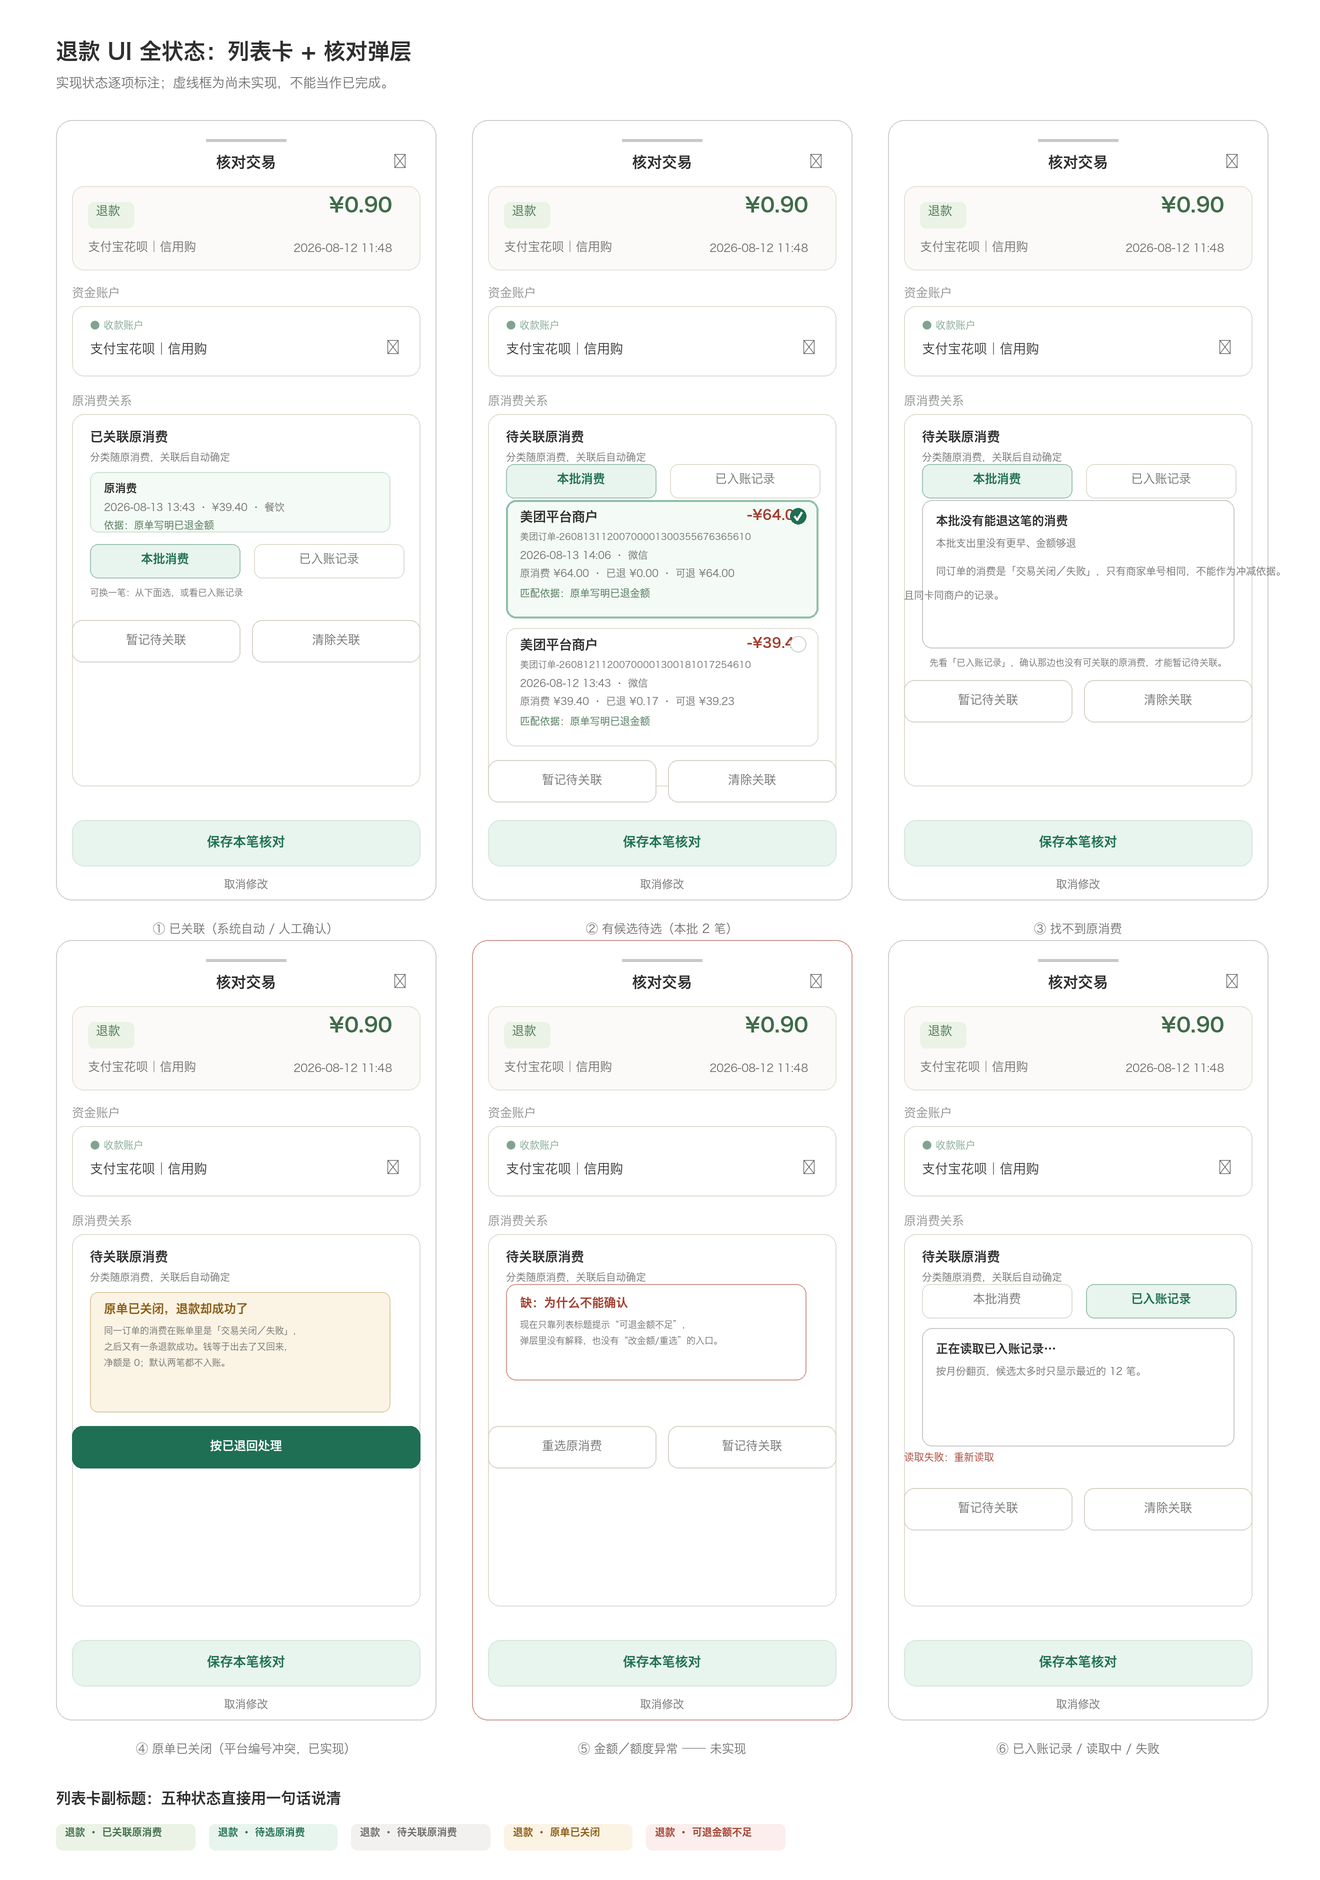
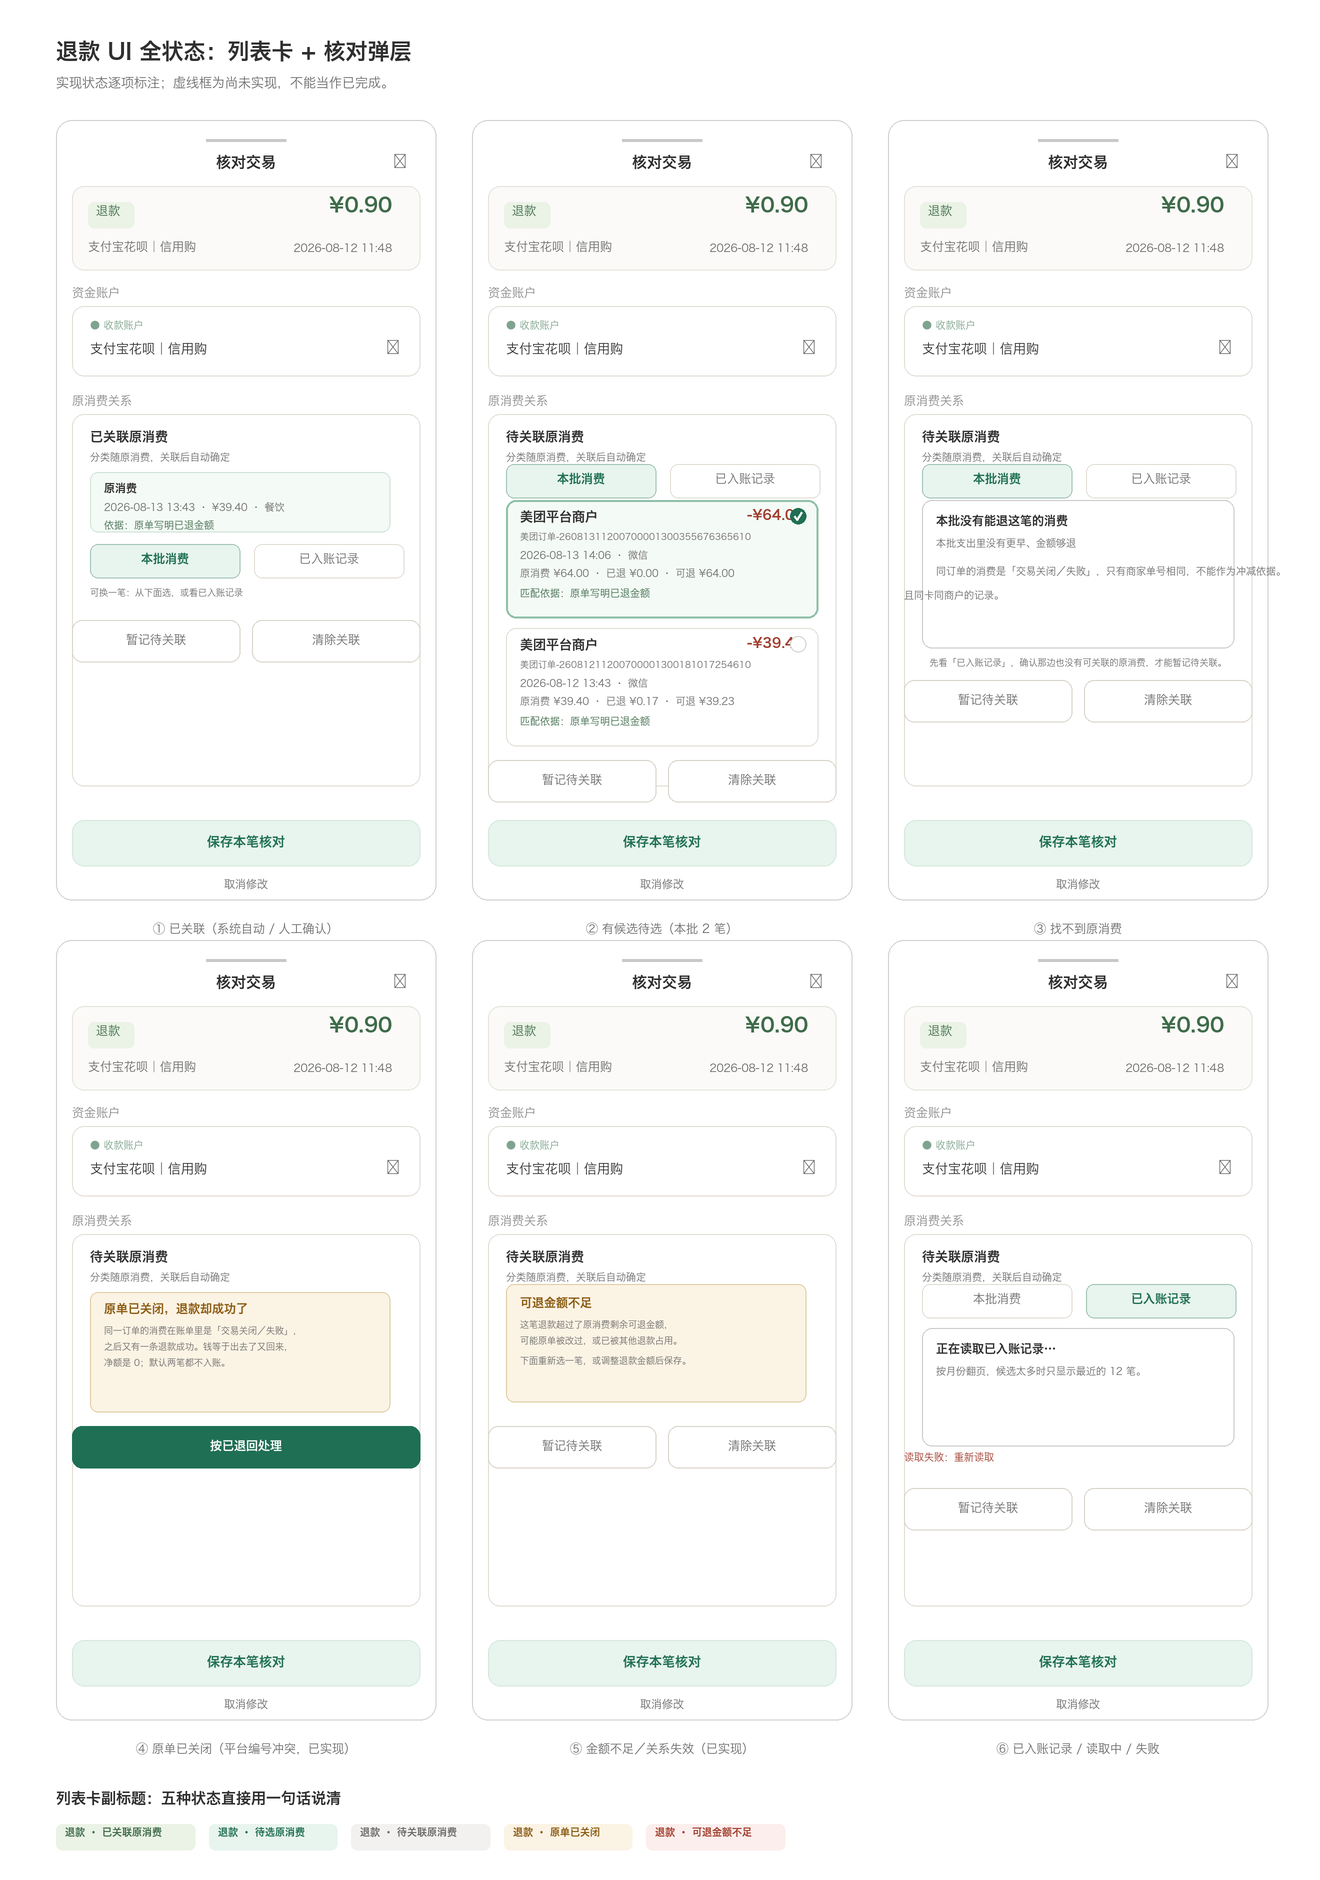
fix(refund): 订单号加后缀视为同一单，旧草稿本机补判定；状态五补说明
- 平台订单号 A 与 A_流水 视为同一单（支付宝退款行写法），据此识别“原单已关闭”
- 本机读取时用同一纯规则重算，规则更新前整理的旧草稿不必重导也能显示正确状态
- 可退金额不足/关系失效：弹层说明原因并指向重选或改金额；已入账读取失败可重试
- 更新界面状态图与文档

Changed region(s): [[0.3727, 0.6787, 0.6212, 0.7713], [0.4348, 0.9255, 0.5591, 0.9564]]

diff --git a/cloudfunctions/catledger-import/src/refund-source-conflict.js b/cloudfunctions/catledger-import/src/refund-source-conflict.js
@@ -7,6 +7,18 @@ function references(event) {
     .filter(value => /^(?:alipay|wechat)\|(?:transaction|order):/u.test(value) && !/[*＊•·xX]{2,}/u.test(value))
 }
 
+// 支付宝的退款行会在原订单号后面追加 "_<流水>"，平台号本身就是原单的派生，
+// 属于平台编码而商户自编号。只认“同一前缀 + 明确分隔符”，避免把两笔独立订单
+// 因为前缀巧合当成同一笔。
+function referenceMatches(left, right) {
+  if (left === right) return true
+  if (!/\|order:/u.test(left) || !/\|order:/u.test(right)) return false
+  const [short, long] = left.length <= right.length ? [left, right] : [right, left]
+  const head = long.slice(0, short.length)
+  const tail = long.slice(short.length)
+  return head === short && /^_/u.test(tail) && short.split(':')[1].length >= 10
+}
+
 function sameSource(left, right, sourceType) {
   const a = left.relationEvidence && left.relationEvidence.rows || []
   const b = right.relationEvidence && right.relationEvidence.rows || []
@@ -15,31 +27,35 @@ function sameSource(left, right, sourceType) {
 }
 
 function reliableSharedReference(left, right) {
-  const refs = new Set(references(left))
-  return references(right).some(reference => refs.has(reference) && sameSource(left, right, reference.split('|')[0]))
+  const refs = references(left)
+  return references(right).some(reference => refs.some(own => referenceMatches(own, reference)) &&
+    sameSource(left, right, reference.split('|')[0]))
 }
 
 function findRefundSourceConflicts(events) {
-  const byReference = new Map()
+  const closed = []
   for (const original of events) {
     if ((original.existingTransactionIds || []).length || !['expense', 'fee'].includes(original.economicNature)) continue
     const rows = original.relationEvidence && original.relationEvidence.rows || []
     if (!rows.length || !rows.every(row => row.direction === 'expense' && ['closed', 'failed'].includes(row.moneyEffect))) continue
-    for (const reference of references(original)) {
-      if (!byReference.has(reference)) byReference.set(reference, [])
-      byReference.get(reference).push(original)
-    }
+    if (!references(original).length) continue
+    closed.push(original)
   }
   const result = []
   for (const refund of events) {
     if (refund.economicNature !== 'refund' || !['ready', 'needs_action'].includes(refund.status)) continue
     const rows = refund.relationEvidence && refund.relationEvidence.rows || []
     if (!rows.length || !rows.every(row => row.sourceAction === 'refund_credit' && row.moneyEffect === 'financial')) continue
+    const refundRefs = references(refund)
     const matches = new Map()
-    for (const reference of references(refund)) for (const original of byReference.get(reference) || []) {
+    for (const original of closed) {
+      const shared = references(original).find(own => refundRefs.some(candidate => referenceMatches(own, candidate)))
+      if (!shared) continue
       const before = timeValue(original.utcAt), after = timeValue(refund.utcAt)
-      if (original.eventId !== refund.eventId && original.currency === refund.currency &&
-          before != null && after != null && before <= after && sameSource(original, refund, reference.split('|')[0])) matches.set(original.eventId, original)
+      if (original.eventId === refund.eventId || original.currency !== refund.currency) continue
+      if (before == null || after == null || before > after) continue
+      if (!sameSource(original, refund, shared.split('|')[0])) continue
+      matches.set(original.eventId, original)
     }
     if (matches.size) result.push({ refund, originals: [...matches.values()] })
   }

diff --git a/miniprogram/packages/finance/domain/import-review/refund-source-conflict.js b/miniprogram/packages/finance/domain/import-review/refund-source-conflict.js
@@ -7,6 +7,18 @@ function references(event) {
     .filter(value => /^(?:alipay|wechat)\|(?:transaction|order):/u.test(value) && !/[*＊•·xX]{2,}/u.test(value))
 }
 
+// 支付宝的退款行会在原订单号后面追加 "_<流水>"，平台号本身就是原单的派生，
+// 属于平台编码而商户自编号。只认“同一前缀 + 明确分隔符”，避免把两笔独立订单
+// 因为前缀巧合当成同一笔。
+function referenceMatches(left, right) {
+  if (left === right) return true
+  if (!/\|order:/u.test(left) || !/\|order:/u.test(right)) return false
+  const [short, long] = left.length <= right.length ? [left, right] : [right, left]
+  const head = long.slice(0, short.length)
+  const tail = long.slice(short.length)
+  return head === short && /^_/u.test(tail) && short.split(':')[1].length >= 10
+}
+
 function sameSource(left, right, sourceType) {
   const a = left.relationEvidence && left.relationEvidence.rows || []
   const b = right.relationEvidence && right.relationEvidence.rows || []
@@ -15,31 +27,35 @@ function sameSource(left, right, sourceType) {
 }
 
 function reliableSharedReference(left, right) {
-  const refs = new Set(references(left))
-  return references(right).some(reference => refs.has(reference) && sameSource(left, right, reference.split('|')[0]))
+  const refs = references(left)
+  return references(right).some(reference => refs.some(own => referenceMatches(own, reference)) &&
+    sameSource(left, right, reference.split('|')[0]))
 }
 
 function findRefundSourceConflicts(events) {
-  const byReference = new Map()
+  const closed = []
   for (const original of events) {
     if ((original.existingTransactionIds || []).length || !['expense', 'fee'].includes(original.economicNature)) continue
     const rows = original.relationEvidence && original.relationEvidence.rows || []
     if (!rows.length || !rows.every(row => row.direction === 'expense' && ['closed', 'failed'].includes(row.moneyEffect))) continue
-    for (const reference of references(original)) {
-      if (!byReference.has(reference)) byReference.set(reference, [])
-      byReference.get(reference).push(original)
-    }
+    if (!references(original).length) continue
+    closed.push(original)
   }
   const result = []
   for (const refund of events) {
     if (refund.economicNature !== 'refund' || !['ready', 'needs_action'].includes(refund.status)) continue
     const rows = refund.relationEvidence && refund.relationEvidence.rows || []
     if (!rows.length || !rows.every(row => row.sourceAction === 'refund_credit' && row.moneyEffect === 'financial')) continue
+    const refundRefs = references(refund)
     const matches = new Map()
-    for (const reference of references(refund)) for (const original of byReference.get(reference) || []) {
+    for (const original of closed) {
+      const shared = references(original).find(own => refundRefs.some(candidate => referenceMatches(own, candidate)))
+      if (!shared) continue
       const before = timeValue(original.utcAt), after = timeValue(refund.utcAt)
-      if (original.eventId !== refund.eventId && original.currency === refund.currency &&
-          before != null && after != null && before <= after && sameSource(original, refund, reference.split('|')[0])) matches.set(original.eventId, original)
+      if (original.eventId === refund.eventId || original.currency !== refund.currency) continue
+      if (before == null || after == null || before > after) continue
+      if (!sameSource(original, refund, shared.split('|')[0])) continue
+      matches.set(original.eventId, original)
     }
     if (matches.size) result.push({ refund, originals: [...matches.values()] })
   }

diff --git a/miniprogram/packages/finance/services/import-local-model.js b/miniprogram/packages/finance/services/import-local-model.js
@@ -264,6 +264,24 @@ function create(facts) {
   const refundPolicy = require('../domain/import-review/refund-relation-policy')
   const evidenceMatching = require('../domain/import-review/evidence-matching')
   const MATCH_RANK = { exact_reference: 1, explicit_refund_evidence: 2, item_evidence: 3, merchant_evidence: 4 }
+  // 服务端整理时已经会标“原单关闭却退款成功”，但旧草稿是在规则更新前整理的。
+  // 这里用同一份纯规则在本机再算一次（幂等），避免同一笔在新旧草稿里显示成两种状态。
+  {
+    const conflictPolicy = require('../domain/import-review/refund-source-conflict')
+    const probe = [...events.values()].map(event => ({ ...event,
+      relationEvidence: relationEvidenceFor(event).relationEvidence, rows: undefined }))
+    for (const { refund, originals } of conflictPolicy.findRefundSourceConflicts(probe)) {
+      const current = events.get(refund.eventId)
+      if (!current) continue
+      current.reasonCodes = [...new Set([...(current.reasonCodes || []), 'refund_source_conflict'])]
+      current.fieldSources = { ...current.fieldSources, refundSourceConflict: { version: 1,
+        originalEventIds: originals.map(original => original.eventId).sort() } }
+      if (current.status === 'ready') current.status = 'needs_action'
+    }
+  }
+
+
+
   function relationEvidenceFor(event) {
     const linksOf = byEvent.get(event.eventId) || []
     const primary = linksOf.find(link => link.evidenceRole === 'primary') || linksOf[0]

diff --git a/miniprogram/packages/finance/pages/import-workbench/review-editor-model.js b/miniprogram/packages/finance/pages/import-workbench/review-editor-model.js
@@ -403,6 +403,9 @@ function derive(row, draft, catalogs = {}) {
     // 同订单的原消费已关闭/失败却出现退款成功时，来源本身互相矛盾；
     // 这种退款不能当普通退款去挑原消费，必须从矛盾事项核对原文。
     refundConflict: Boolean((row.reasonCodes || []).includes('refund_source_conflict')),
+    // 可退金额不足或原关联失效：候选照常给，但要先说清为什么这笔还是待核对。
+    refundBlocked: Boolean((row.reasonCodes || []).includes('refund_amount_exceeded')) ? 'amount'
+      : Boolean((row.reasonCodes || []).includes('refund_relation_invalid')) ? 'invalid' : '',
     fieldErrors, errors: [...new Set(errors)], missing: [...new Set(missing)], changed: Boolean(changed),
     canSave: supported && Boolean(changed) && errors.length === 0,
     complete: missing.length === 0 && !(facts?.blockingReasons || []).length && !(row.reasonCodes || []).some(reason => ['row_status_unknown','identity_conflict','same_event_candidate','refund_source_conflict','core_fields_conflict'].includes(reason)),

diff --git a/docs/导入交易统一编辑方案.md b/docs/导入交易统一编辑方案.md
@@ -152,10 +152,10 @@
 
 **当前实现的界面状态与缺口**（状态定义见[退款关系五态](招财猫记账本入账逻辑说明.md#refund-states)）：
 
-![退款界面状态：已关联、有候选、找不到原消费、原单已关闭、已入账记录与读取失败；金额异常态尚未实现。](images/refund-ui-states.png)
+![退款界面状态：已关联、有候选、找不到原消费、原单已关闭、金额异常、已入账记录与读取失败。](images/refund-ui-states.png)
 
 - 已实现：已关联（含更换）、有候选（单选后确认）、找不到原消费（空态 + 提示 + 暂记待关联）、原单已关闭（平台编号冲突，按已退回处理）、已入账记录切换、加载中与读取失败、保存草稿。
-- **未实现**：可退金额不足／关系失效（状态五）在弹层里只有列表标题提示，没有“为什么”和“改金额、重选”的入口；已入账范围的读取失败只有文字，没有单独的重试按钮。
+- 可退金额不足／关系失效（状态五）：弹层里说明原因，并指向“重选原消费或调整金额”；已入账读取失败提供“重新读取”。
 - 只有商家单号相同不算原单已关闭，仍按找不到原消费处理，只在空态里提示。
 
 ### 4.7 分期和贷款资料
